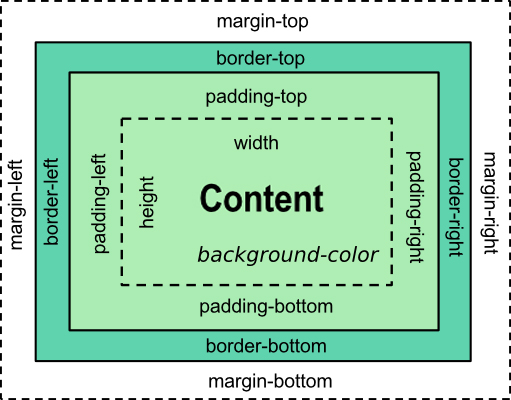
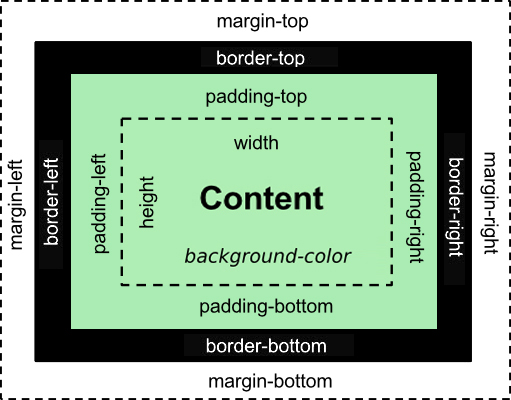
webpage update

diff --git a/blog/t2-css-design.html b/blog/t2-css-design.html
@@ -25,16 +25,24 @@
         <main>
           <h1>Box Model Anyone?</h1>
           <h2>Margins, Borders & Padding</h2>
-          <h4>07/13/15</h4>
+          <h4>07/20/15</h4>
 
           <section>
           <p>
-            <img scr="../img/box_model.jpg" alt="Box Model">
+            <img src="../img/box_model.jpg" alt="Box Model" id="box_model">
           </p>
           <p>
-            This is a diagram of the</p>
+            This is a diagram of what we call the box model for CSS.</p>
            <p>
-            Github is a website that stores Git repositories and people can collaborate with others by cloning the code, changing it locally and then uploading it.
+            As you can see, there are a few layers to this concept. First you have the content that is in middle defined and confined by the height and width creating the inner dotted box.  If there are no more added parameters, this is what you'll see show up on your site.
+          </p>
+          <p>
+            Padding is space that your content will not bleed into but shares the same traits as your content such as background color. this is the area that is shown in mint green.
+          </p>
+          <p>Most people think of a border being a line around stuff and that's just what it is! Border surrounds the content and padding. It can be defined in terms of thickness, solid or dashed and color. In this diagram it's the thick black line. You will notice that you can address each side of the content separately.
+          </p>
+          <p>
+            Margins are the last thing on this diagram.It pretty much gives you a buffer against the next object. It exists after the border and has no background values to it meaning it's invisible space!
           </p>
 
 
@@ -64,7 +72,7 @@
       <ul class="blog_posts">
         <li><a href="./t1-git-blog.html">Git to it!</a><span class="blog_span"> 07/13/15</span></li>
         <li><a href="./c1-chefs-kitchen.html">Techie Fruit Punch</a><span class="blog_span"> 07/13/15</span></li>
-        <li><a href="./blog/t2-css-design.html">Box Model Anyone?</a><span class="blog_span"> 07/20/15</span></li>
+        <li><a href="./t2-css-design.html">Box Model Anyone?</a><span class="blog_span"> 07/20/15</span></li>
         <li><a href="./blog/t1-git-blog.html">Blog week 4</a><span class="blog_span"> 07/27/15</span></li>
     </div>
 

diff --git a/blog/blog_index.html b/blog/blog_index.html
@@ -46,7 +46,7 @@
       <ul class="blog_posts">
         <li><a href="./t1-git-blog.html">Git to it!</a><span class="blog_span"> 07/13/15</span></li>
         <li><a href="./c1-chefs-kitchen.html">Techie Fruit Punch</a><span class="blog_span"> 07/13/15</span></li>
-        <li><a href="./blog/t2-css-design.html">Box Model Anyone?</a><span class="blog_span"> 07/20/15</span></li>
+        <li><a href="./t2-css-design.html">Box Model Anyone?</a><span class="blog_span"> 07/20/15</span></li>
         <li><a href="./blog/t1-git-blog.html">Blog week 4</a><span class="blog_span"> 07/27/15</span></li>
     </div>
 

diff --git a/blog/c1-chefs-kitchen.html b/blog/c1-chefs-kitchen.html
@@ -60,7 +60,7 @@
       <ul class="blog_posts">
         <li><a href="./t1-git-blog.html">Git to it!</a><span class="blog_span"> 07/13/15</span></li>
         <li><a href="./c1-chefs-kitchen.html">Techie Fruit Punch</a><span class="blog_span"> 07/13/15</span></li>
-        <li><a href="./blog/t2-css-design.html">Box Model Anyone?</a><span class="blog_span"> 07/20/15</span></li>
+        <li><a href="./t2-css-design.html">Box Model Anyone?</a><span class="blog_span"> 07/20/15</span></li>
         <li><a href="./blog/t1-git-blog.html">Blog week 4</a><span class="blog_span"> 07/27/15</span></li>
     </div>
 

diff --git a/blog/t1-git-blog.html b/blog/t1-git-blog.html
@@ -64,7 +64,7 @@
       <ul class="blog_posts">
         <li><a href="./t1-git-blog.html">Git to it!</a><span class="blog_span"> 07/13/15</span></li>
         <li><a href="./c1-chefs-kitchen.html">Techie Fruit Punch</a><span class="blog_span"> 07/13/15</span></li>
-        <li><a href="./blog/t2-css-design.html">Box Model Anyone?</a><span class="blog_span"> 07/20/15</span></li>
+        <li><a href="./t2-css-design.html">Box Model Anyone?</a><span class="blog_span"> 07/20/15</span></li>
         <li><a href="./blog/t1-git-blog.html">Blog week 4</a><span class="blog_span"> 07/27/15</span></li>
     </div>
 

diff --git a/avinoz_stylesheet.css b/avinoz_stylesheet.css
@@ -92,7 +92,8 @@ h4 {
   left: -10px;
   display: inline-block;
   padding-left: 50px;
-  overflow: hidden;
+  overflow-y: scroll;
+  overflow-x: hidden;
 }
 
 #b_text {
@@ -107,12 +108,12 @@ span {
   color: #F0F0F0;
 }
 
-img {
+#profile_pic {
   height: 450px;
   width: 450px;
-  position: absolute;
-  top: 0px;
-  right: 30px;
+  position: fixed;
+  top: 153px;
+  right: 0px;
   margin-right: 0px
 
 }
@@ -196,3 +197,9 @@ section {
   color: #B0B0B0;
 }
 
+#box_model {
+  margin: 20px 20px 30px 30px;
+  height: 70%;
+  width: 70%
+
+}
